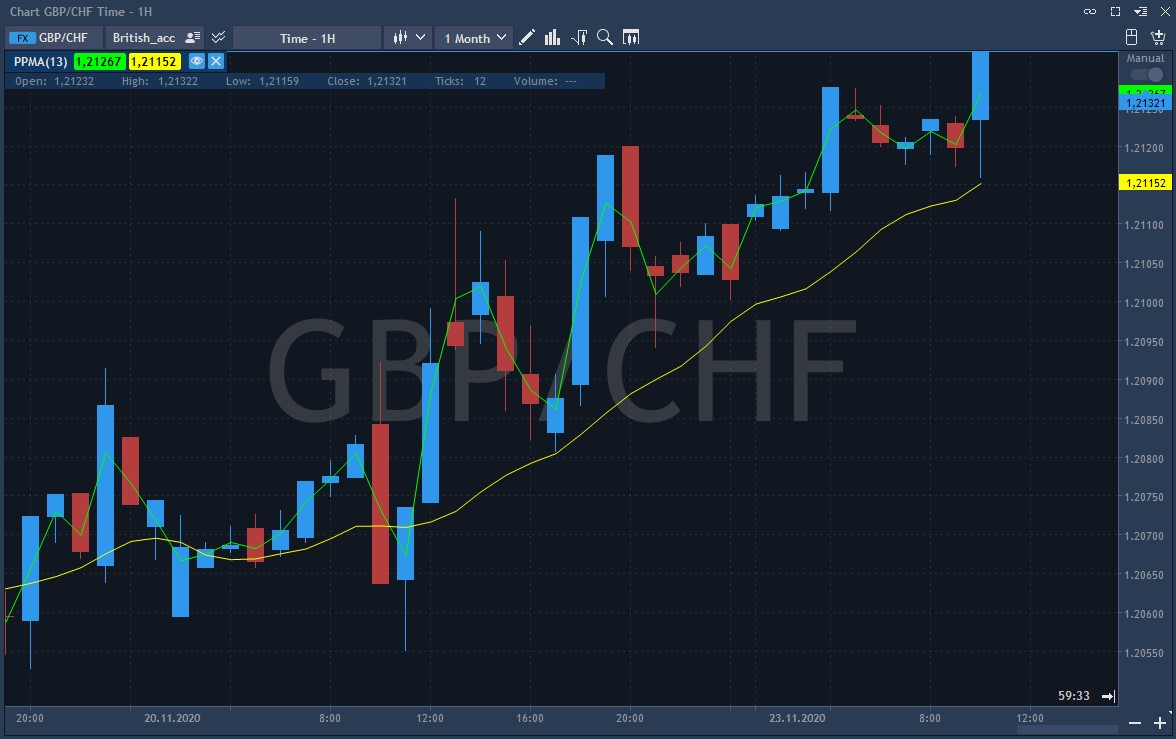
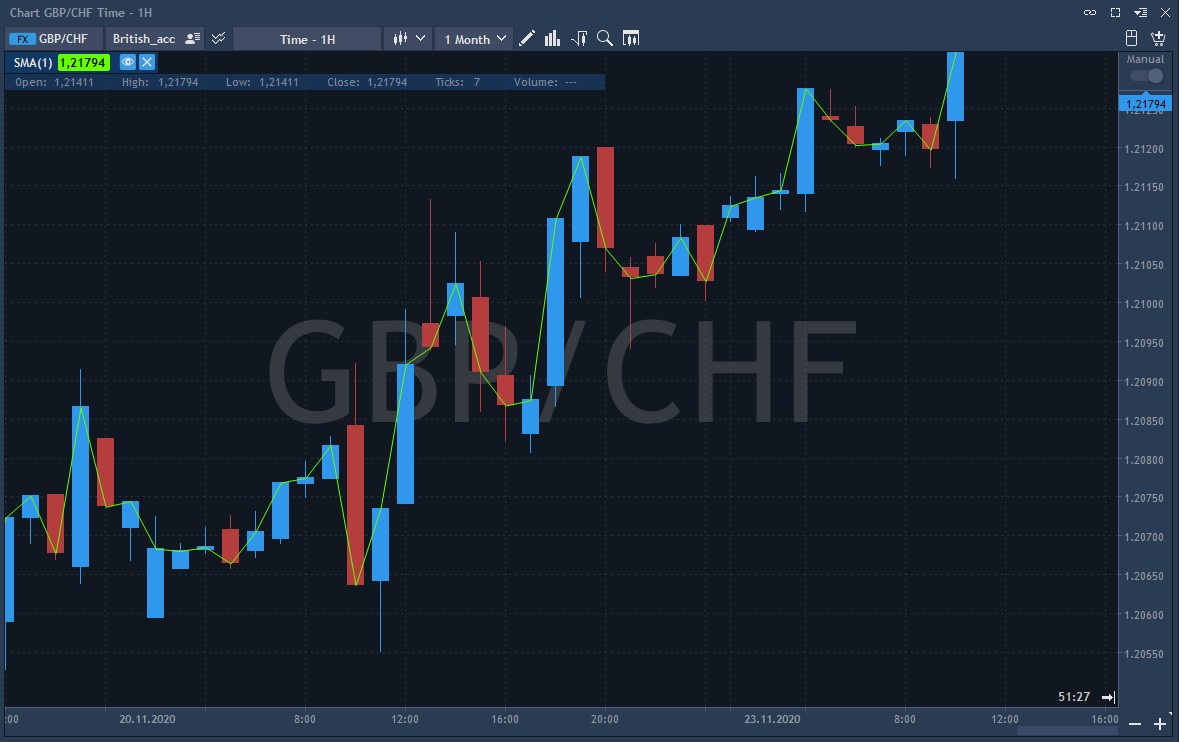
GitBook: [master] 3 pages and 2 assets modified

diff --git a/desktop-application-for-windows/windows/technical-indicators/moving-averages/sma-simple-moving-average.md b/desktop-application-for-windows/windows/technical-indicators/moving-averages/sma-simple-moving-average.md
@@ -1,0 +1,33 @@
+# SMA \(Simple moving average\)
+
+The Moving average technical indicator shows the average value of the instrument price over a certain period of time. When calculating the moving average, the instrument price is averaged over this period of time. When the price changes, its moving average either increases or decreases. When the instrument price rises above the Moving average value, a buy signal appears; if it falls below the indicator line, a sell signal appears.
+
+The SMA \(Simple moving average\) is calculated as follows: the closing prices of a currency taken over a certain period of time are summed up and divided by the number of these periods. Typically SMA is the average price over a period. 
+
+Volatility in the Forex market is much more smoothed over long periods of time due to the equal weight given to the daily SMA price. The long-term averages can be seen out of the long-term trends as far as any minor fluctuations are smoothed out. Short-term averages are used to find short-term trends, but they still provide long-term expenses. 
+
+Prices are mostly located close to the moving average, but still aside from it. The Moving average changes following a trend change, which provides additional data on the trend strength based on the slope steepness.
+
+### Calculation
+
+The Simple moving average is an arithmetic moving average that is calculated by summing the closing prices of an instrument over a specified number of distinct periods \(for example, 12 hours\). This value is then divided by the number of such periods.
+
+SMA = SUM \(CLOSE \(i\), N\) / N
+
+Where:
+
+SUM — sum;
+
+CLOSE \(i\) — current period close price;
+
+N — number of calculation periods.
+
+### Main parameters
+
+* Period of Simple moving average – number of periods involved in the indicator calculation;
+* Sources prices of MA – type of price at which the indicator will be calculated. Available values: Low, Open, High, Close, Typical, Medium, Weighted.
+
+The indicator looks as follows on the chart:
+
+![](../../../../.gitbook/assets/screenshot_2%20%2815%29.jpg)
+

diff --git a/SUMMARY.md b/SUMMARY.md
@@ -56,6 +56,7 @@
         * [MMA \(Modified moving average\)](desktop-application-for-windows/windows/technical-indicators/moving-averages/mma-modified-moving-average.md)
         * [PPMA \(Pivot point moving average\)](desktop-application-for-windows/windows/technical-indicators/moving-averages/ppma-pivot-point-moving-average.md)
         * [Regression line](desktop-application-for-windows/windows/technical-indicators/moving-averages/regression-line.md)
+        * [SMA \(Simple moving average\)](desktop-application-for-windows/windows/technical-indicators/moving-averages/sma-simple-moving-average.md)
     * [Trading panels](desktop-application-for-windows/windows/trading-panels/README.md)
       * [Order entry](desktop-application-for-windows/windows/trading-panels/order-entry.md)
       * [Super DOM](desktop-application-for-windows/windows/trading-panels/super-dom.md)

diff --git a/desktop-application-for-windows/windows/technical-indicators/moving-averages/ppma-pivot-point-moving-average.md b/desktop-application-for-windows/windows/technical-indicators/moving-averages/ppma-pivot-point-moving-average.md
@@ -21,7 +21,7 @@ period = calculation time period
 
 This indicator looks as follows on the chart:
 
-![](../../../../.gitbook/assets/screenshot_2%20%2815%29.jpg)
+![](../../../../.gitbook/assets/screenshot_2%20%2816%29.jpg)
 
 
 
